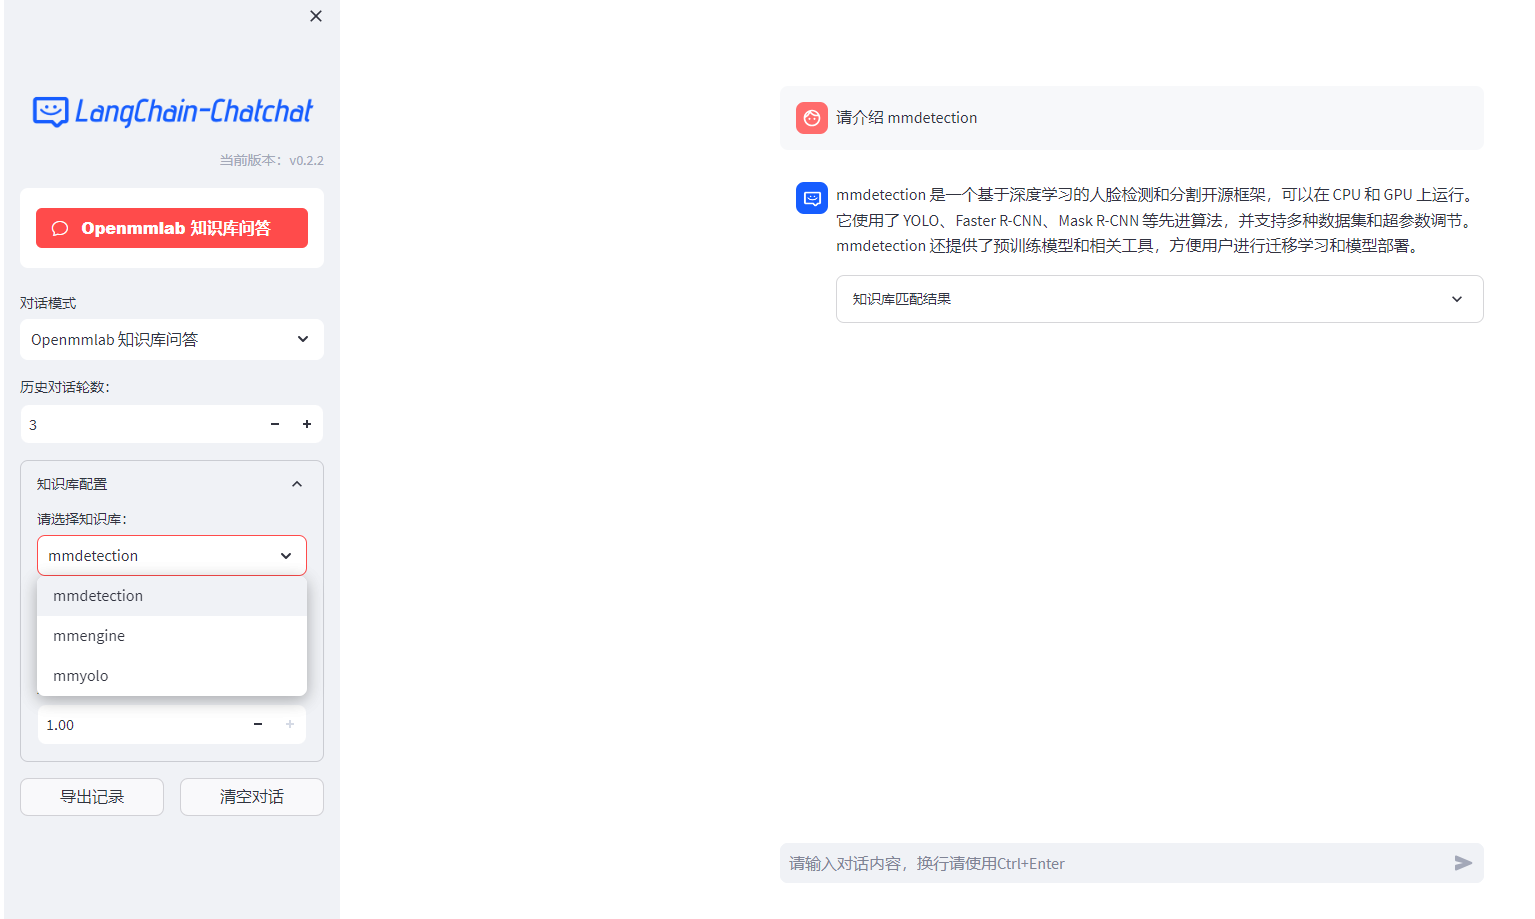
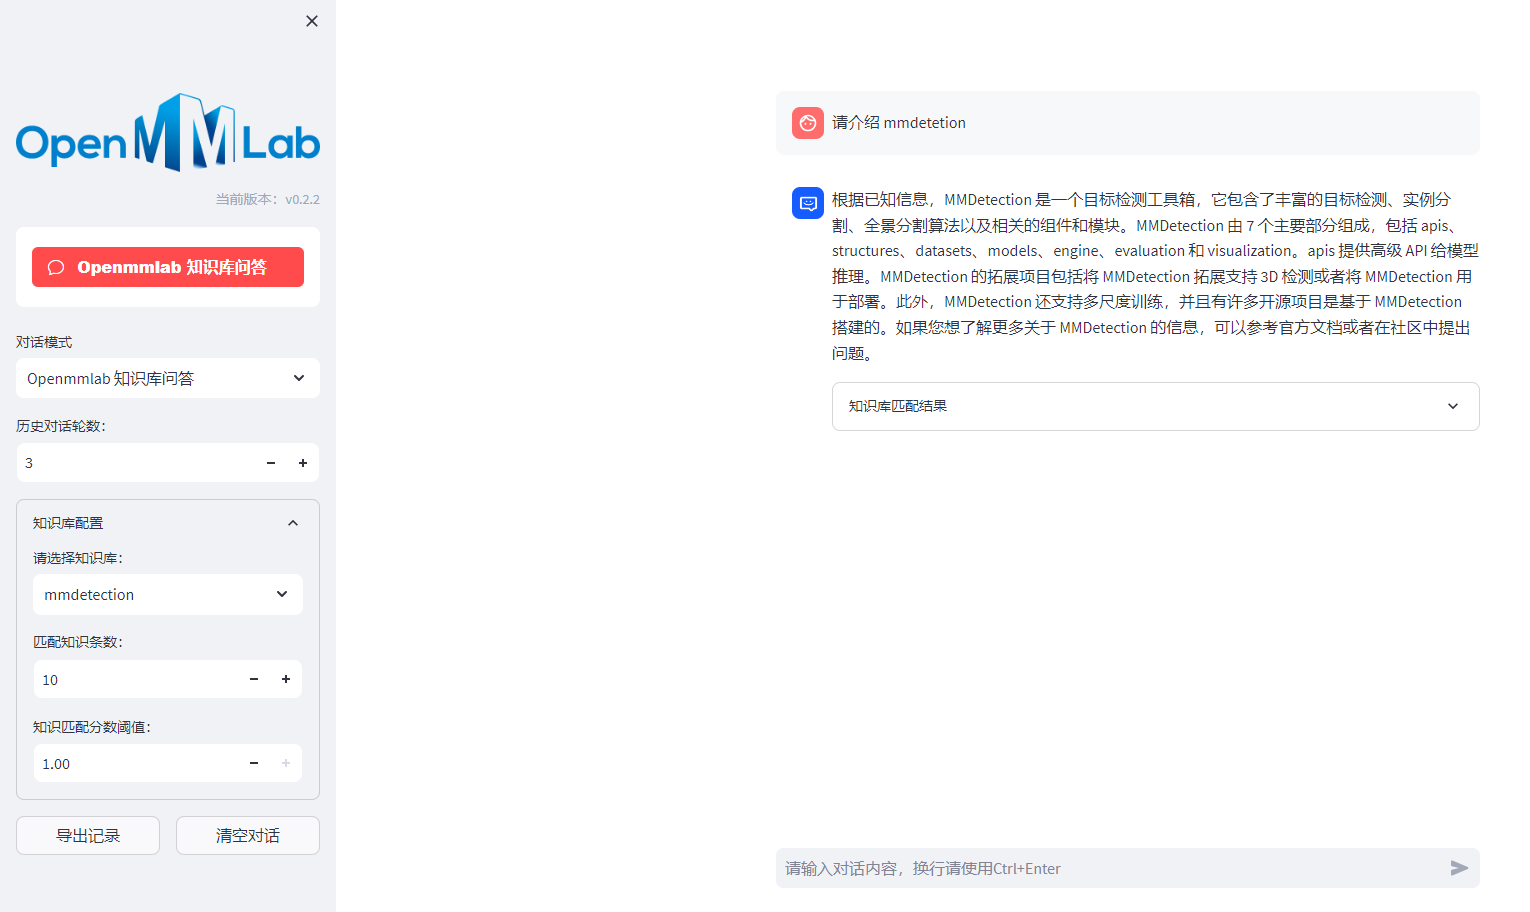
update

diff --git a/webui.py b/webui.py
@@ -15,19 +15,17 @@ api = ApiRequest(base_url="http://127.0.0.1:7861", no_remote_api=False)
 
 if __name__ == "__main__":
     st.set_page_config(
-        "Langchain-Chatchat WebUI",
-        os.path.join("img", "chatchat_icon_blue_square_v2.png"),
+        "Openmmlab 知识库问答",
+        os.path.join("img", "openmmlab_logo.png"),
         initial_sidebar_state="expanded",
         menu_items={
-            'Get Help': 'https://github.com/chatchat-space/Langchain-Chatchat',
-            'Report a bug': "https://github.com/chatchat-space/Langchain-Chatchat/issues",
-            'About': f"""欢迎使用 Langchain-Chatchat WebUI {VERSION}！"""
+            'About': f"""欢迎使用 Openmmlab 知识库问答！"""
         }
     )
 
     if not chat_box.chat_inited:
         st.toast(
-            f"欢迎使用 [`Langchain-Chatchat`](https://github.com/chatchat-space/Langchain-Chatchat) ! \n\n"
+            f"欢迎使用 Openmmlab 知识库问答! \n\n"
             f"当前使用模型`{LLM_MODEL}`, 您可以开始提问了."
         )
 
@@ -46,7 +44,7 @@ if __name__ == "__main__":
         st.image(
             os.path.join(
                 "img",
-                "logo-long-chatchat-trans-v2.png"
+                "openmmlab_logo.png"
             ),
             use_column_width=True
         )

diff --git a/webui_pages/dialogue/dialogue.py b/webui_pages/dialogue/dialogue.py
@@ -75,7 +75,7 @@ def dialogue_page(api: ApiRequest):
                     on_change=on_kb_change,
                     key="selected_kb",
                 )
-                kb_top_k = st.number_input("匹配知识条数：", 1, 20, 3)
+                kb_top_k = st.number_input("匹配知识条数：", 1, 20, 10)
                 score_threshold = st.number_input("知识匹配分数阈值：", 0.0, 1.0, float(SCORE_THRESHOLD), 0.01)
                 # chunk_content = st.checkbox("关联上下文", False, disabled=True)
                 # chunk_size = st.slider("关联长度：", 0, 500, 250, disabled=True)

diff --git a/README.md b/README.md
@@ -1,8 +1,10 @@
 ## 介绍
 
-基于 [LangChain-Chatchat](https://github.com/chatchat-space/Langchain-Chatchat) 搭建使用 LLM [internlm/internlm-chat-7b-v1_1](https://huggingface.co/internlm/internlm-chat-7b-v1_1) 的 Openmmlab 知识库问答。
+使用 [LangChain-Chatchat](https://github.com/chatchat-space/Langchain-Chatchat) 搭建基于 LLM [internlm/internlm-chat-7b-v1_1](https://huggingface.co/internlm/internlm-chat-7b-v1_1) 的 OpenMMLab 知识库问答。
 
 目前当前 Repo 支持 `mmdetection`，`mmyolo` 和 `mmengine`。
+
+ ![](img/openmmlab_chat.png)
 
 ## 模型支持
 
